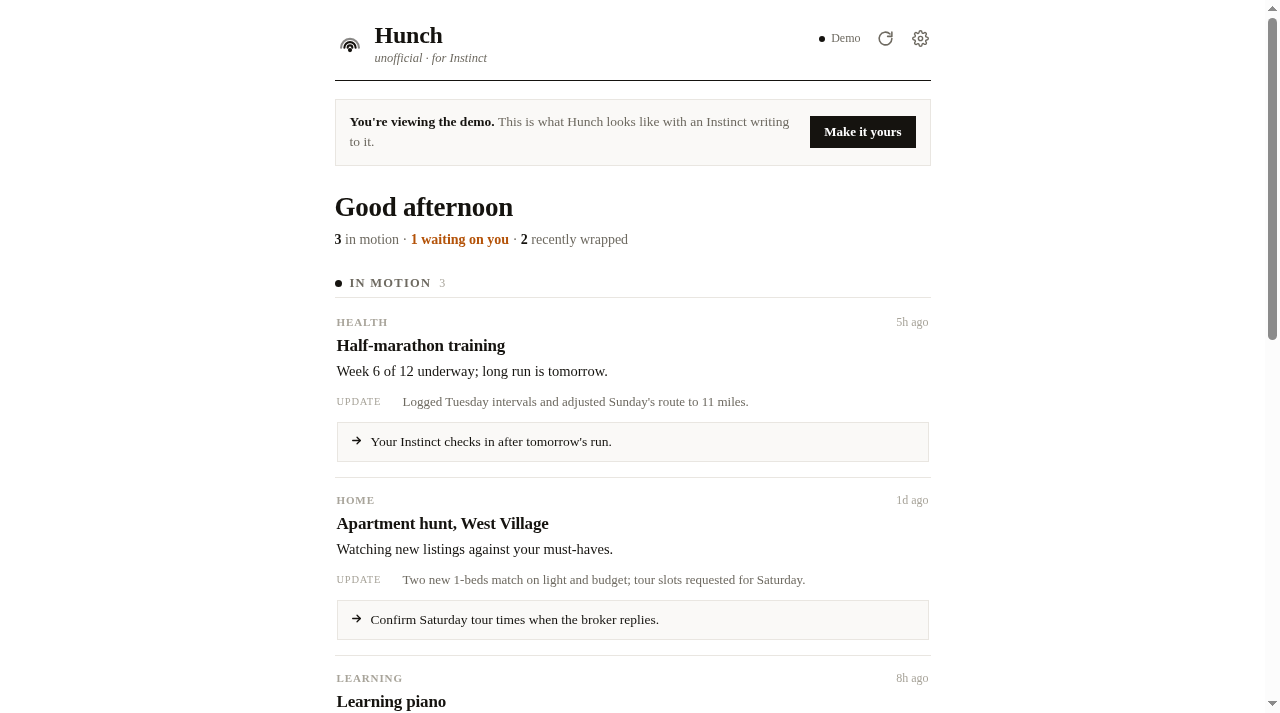
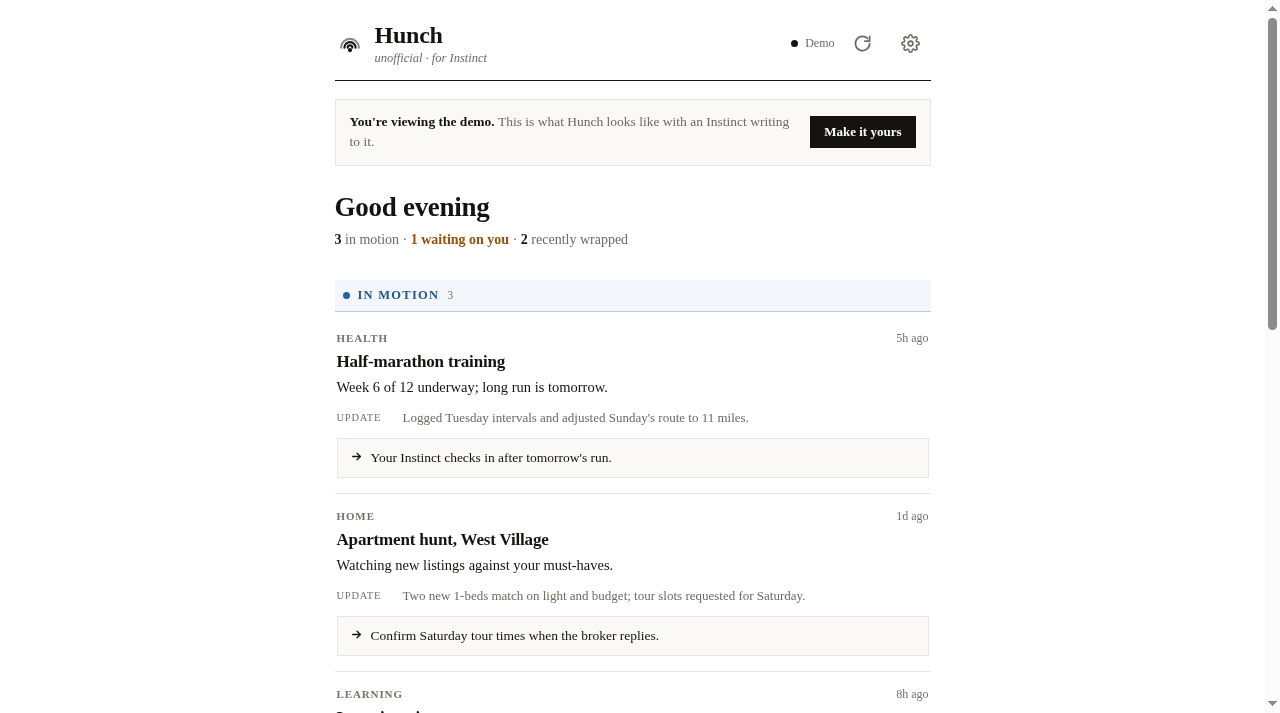
Public-release polish: security/contributing docs, publisher tests, fresh screenshots
- SECURITY.md: private reporting path, scope notes, expectations
- CONTRIBUTING.md: ground rules (no build step, no deps, no trackers),
  agent-contract pointers, how to run checks
- .github/ISSUE_TEMPLATE/bug_report.md: mode/device capture, warns
  against pasting dashboard links
- test/publish.test.mjs + package.json: encrypted round-trip, rotation,
  malformed-state, and atomic-write tests (node --test, zero deps)
- README: vendored supabase-js version + sha256 provenance note,
  contributing/security/checks section
- assets: retake README screenshots against the current shell

diff --git a/CONTRIBUTING.md b/CONTRIBUTING.md
@@ -1,0 +1,34 @@
+# Contributing
+
+Small, focused contributions are welcome. The project is deliberately tiny:
+one `index.html`, one publisher script, no build step, no framework, no
+runtime dependencies. Contributions that keep it that way are the ones that
+get merged.
+
+## Ground rules
+
+- **No build step and no dependencies.** The app must keep working as a
+  single static file on any dumb host. `supabase.min.js` is the one vendored
+  exception, used only by the optional backend.
+- **Privacy is a feature.** No analytics, trackers, or third-party requests.
+  New network calls beyond the owner's own backend will not be merged.
+- **Read-only stays read-only.** The page never edits the work it shows.
+- **The agent contract is real.** `AGENTS.md` and `WRITER.md` are read and
+  acted on by AI assistants setting up and writing to Hunch. Changes to
+  data shape, snapshot format, or publish flow must update both.
+
+## Working on it
+
+- Edit `index.html` directly - it is markup, styles, and logic in one file.
+- Bump `APP_VERSION` in `index.html` on any user-visible change: installed
+  copies reload themselves when the host serves a newer shell.
+- Run the checks before opening a PR: `npm test` (or `node --test
+  'test/*.test.mjs'`). They cover the encrypted publish round-trip, key
+  rotation, and failure behavior of `publish.mjs`.
+- Screenshots and the social card live in `assets/`; refresh them when the
+  design changes.
+
+## Bugs and ideas
+
+Open an issue. For security problems, use [SECURITY.md](SECURITY.md)
+instead - never a public issue.

diff --git a/SECURITY.md b/SECURITY.md
@@ -1,0 +1,33 @@
+# Security policy
+
+Hunch is a privacy-sensitive project: the whole point is that a page full of
+personal context stays private. Reports are taken seriously.
+
+## Reporting a vulnerability
+
+Please do **not** open a public issue for a security problem.
+
+- Preferred: use GitHub's private vulnerability reporting on this repository
+  (Security tab -> Report a vulnerability).
+- If that is unavailable to you, open a minimal public issue saying you have
+  a security report to share, without details, and we will open a private
+  channel.
+
+Please include: the affected backend (encrypted snapshot, Supabase, or the
+D1 fallback), the file or flow involved, and a way to reproduce what you
+found. Synthetic data only - never someone else's live dashboard link or
+snapshot in a report.
+
+## Scope notes
+
+- The demo at hunch-app.pages.dev contains fictional data only.
+- The `#k` dashboard link is a bearer credential by design; that tradeoff is
+  documented in the README's security model. Reports about *weakening* that
+  model (e.g. the key leaking somewhere it should not) are in scope; the
+  existence of the bearer-link design itself is a documented decision.
+- `snapshot.enc` is ciphertext at rest on the host by design.
+
+## What to expect
+
+An acknowledgement within a few days, a plain-English assessment, and a fix
+or a documented decision. Credit in the release notes if you want it.

diff --git a/README.md b/README.md
@@ -128,10 +128,16 @@ Because "hunch" is a synonym for instinct - and that's exactly what this is: ins
 - `publish.mjs` - the snapshot publisher: state JSON in, encrypted `snapshot.enc` out
 - `AGENTS.md` - the Instinct-facing contract: install path, boundaries, writer rules
 - `WRITER.md` - the write contract in detail, with copy-paste commands
-- `supabase.min.js` - Supabase JS client (MIT, © Supabase), used only by the optional backend
[1 lines of base64/hex data omitted]
 - `setup.sql` - table + row-level security + demo rows, for the optional backend
 - `fallbacks/cloudflare-d1/` - a working third backend (Worker + D1) parked for future needs like audit logs or querying
 - `assets/` - logo and screenshots
+
+## Contributing, security, and checks
+
+Bugs and ideas: open an issue. Small focused PRs are welcome - see [CONTRIBUTING.md](CONTRIBUTING.md) for the ground rules (no build step, no dependencies, no trackers). Security reports go through [SECURITY.md](SECURITY.md), never a public issue.
+
+Checks: `npm test` runs the publisher's encrypted round-trip, key-rotation, and failure tests (`node --test 'test/*.test.mjs'`, no dependencies to install).
 
 ## License
 

diff --git a/.github/ISSUE_TEMPLATE/bug_report.md b/.github/ISSUE_TEMPLATE/bug_report.md
@@ -1,0 +1,24 @@
+---
+name: Bug report
+about: Something in Hunch is broken or wrong
+title: ''
+labels: bug
+assignees: ''
+---
+
+**What happened?**
+
+
+**What did you expect?**
+
+
+**Which backend?**
+demo / encrypted snapshot / Supabase / not sure
+
+**Where?**
+Browser and device (e.g. Safari on iPhone, home-screen app), and whether the
+page is the hosted demo or your own deployment.
+
+**Anything else**
+Screenshots welcome - but never include your full dashboard link (the part
+after `#` is your decryption key) or real dashboard contents.
